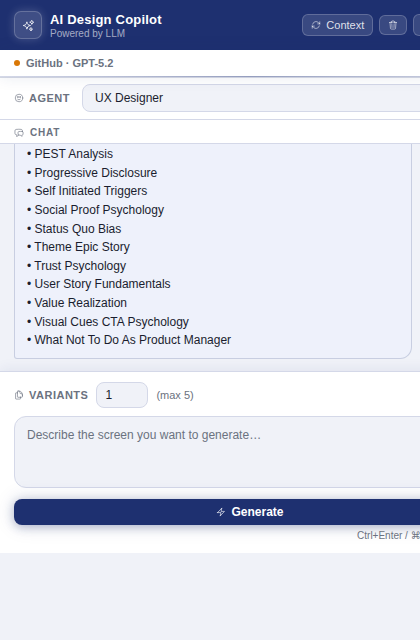
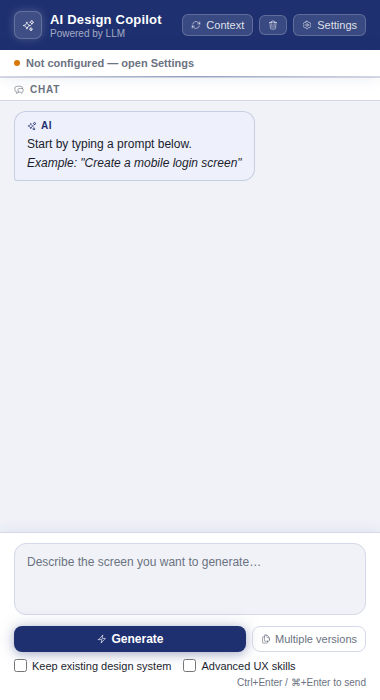
feat: redesign chat UI per designer feedback
- Remove dashed border from empty chat; replace with AI-style chat bubble
- Move all options (checkboxes) below the prompt input
- Hide version count behind a 'Multiple versions' toggle button
- Update src/ui.ts: remove empty state on first message, restore on clear (DRY helper), wire versions toggle
- Update README screenshots and UI layout table

diff --git a/ui.html b/ui.html
@@ -196,14 +196,11 @@
 
     /* ── Options Bar (checkboxes + skills info on main page) ──── */
     .options-bar {
-      background: var(--surface);
-      border-bottom: 1px solid var(--border);
-      padding: 7px 14px;
       display: flex;
       align-items: center;
       gap: 12px;
-      flex-shrink: 0;
       flex-wrap: wrap;
+      padding-top: 7px;
     }
 
     .checkbox-option {
@@ -498,17 +495,32 @@
     }
 
     .chat-empty {
-      text-align: center;
-      color: var(--text-muted);
-      font-size: 12px;
-      margin-top: 24px;
-      line-height: 1.6;
-      padding: 20px 16px;
-      background: var(--surface);
-      border: 1px dashed var(--border-aura);
+      align-self: flex-start;
+      max-width: 85%;
+      background: var(--ai-bubble);
       border-radius: var(--radius-lg);
+      border-bottom-left-radius: 3px;
+      border: 1px solid var(--border-aura);
+      padding: 8px 12px;
+      display: flex;
+      flex-direction: column;
+      gap: 4px;
     }
-    .chat-empty .icon { font-size: 26px; display: block; margin: 0 auto 10px; opacity: 0.25; color: var(--primary); }
+    .chat-empty__label {
+      font-size: 10px;
+      font-weight: 700;
+      text-transform: uppercase;
+      letter-spacing: 0.6px;
+      color: var(--primary);
+      display: flex;
+      align-items: center;
+      gap: 4px;
+    }
+    .chat-empty__text {
+      font-size: 12px;
+      color: var(--ai-text);
+      line-height: 1.55;
+    }
 
     /* ── Input Area ───────────────────────────────────────────── */
     .input-section {
@@ -524,6 +536,36 @@
       align-items: center;
       gap: 8px;
       margin-bottom: 8px;
+    }
+
+    /* ── Versions toggle button ───────────────────────────────── */
+    .btn--versions {
+      background: transparent;
+      color: var(--text-muted);
+      border: 1px solid var(--border);
+      padding: 4px 8px;
+      font-size: 11px;
+      border-radius: var(--radius);
+      display: inline-flex;
+      align-items: center;
+      gap: 4px;
+      cursor: pointer;
+      font-family: var(--font);
+      font-weight: 500;
+      transition: background 0.15s, color 0.15s, border-color 0.15s;
+    }
+    .btn--versions:hover,
+    .btn--versions.active {
+      background: var(--bg);
+      color: var(--primary);
+      border-color: var(--border-aura);
+    }
+
+    .variants-row {
+      display: flex;
+      align-items: center;
+      gap: 8px;
+      padding-top: 6px;
     }
 
     textarea {
@@ -1086,19 +1128,6 @@
     </div>
   </div>
 
-  <!-- ── Options Bar: generation mode checkboxes + loaded skills info ─ -->
-  <div class="options-bar" id="options-bar">
-    <label class="checkbox-option" title="Strictly enforce your Figma design system components and tokens">
-      <input type="checkbox" id="keep-design-system" />
-      Keep existing design system
-    </label>
-    <label class="checkbox-option" title="Load advanced UX frameworks and design principles into the prompt">
-      <input type="checkbox" id="advanced-ux-skills" />
-      Advanced UX skills
-    </label>
-    <span class="agents-skills-info" id="agents-skills-info"></span>
-  </div>
-
   <!-- ── Chat History ────────────────────────────────────────── -->
   <div class="chat-section">
     <div class="chat-section__label">
@@ -1108,25 +1137,18 @@
       </span>
     </div>
     <div id="chat-history" role="log" aria-live="polite" aria-label="Chat history">
-      <p class="chat-empty">
-        <svg class="icon icon-lg" aria-hidden="true"><use href="#icon-sparkles"/></svg>
-        Start by typing a prompt below.<br>
-        <em>Example: "Create a mobile login screen with 3 versions"</em>
-      </p>
+      <div class="chat-empty" id="chat-empty-state">
+        <span class="chat-empty__label">
+          <svg class="icon icon-sm" aria-hidden="true"><use href="#icon-sparkles"/></svg>
+          AI
+        </span>
+        <p class="chat-empty__text">Start by typing a prompt below.<br><em>Example: "Create a mobile login screen"</em></p>
+      </div>
     </div>
   </div>
 
   <!-- ── Input Area ─────────────────────────────────────────── -->
   <section class="input-section">
-    <div class="variants-row">
-      <label class="settings__label" for="variants-input">
-        <svg class="icon icon-sm" aria-hidden="true"><use href="#icon-clone"/></svg>
-        Versions
-      </label>
-      <input type="number" id="variants-input" value="1" min="1" max="5"
-             style="width:52px" aria-label="Number of versions"/>
-      <span style="color:var(--text-muted);font-size:11px">(max 5)</span>
-    </div>
     <textarea id="prompt-input" placeholder="Describe the screen you want to generate…"
               aria-label="Prompt"></textarea>
     <div class="input-actions">
@@ -1135,6 +1157,31 @@
         <svg class="icon icon-sm" id="generate-icon" aria-hidden="true"><use href="#icon-bolt"/></svg>
         <span id="generate-label">Generate</span>
       </button>
+      <button class="btn--versions" id="versions-toggle-btn" type="button" aria-expanded="false" title="Set number of versions">
+        <svg class="icon icon-sm" aria-hidden="true"><use href="#icon-clone"/></svg>
+        Multiple versions
+      </button>
+    </div>
+    <div class="variants-row hidden" id="variants-row">
+      <label class="settings__label" for="variants-input">
+        <svg class="icon icon-sm" aria-hidden="true"><use href="#icon-clone"/></svg>
+        Versions
+      </label>
+      <input type="number" id="variants-input" value="1" min="1" max="5"
+             style="width:52px" aria-label="Number of versions"/>
+      <span style="color:var(--text-muted);font-size:11px">(max 5)</span>
+    </div>
+    <!-- ── Options: generation mode checkboxes + loaded skills info ─ -->
+    <div class="options-bar" id="options-bar">
+      <label class="checkbox-option" title="Strictly enforce your Figma design system components and tokens">
+        <input type="checkbox" id="keep-design-system" />
+        Keep existing design system
+      </label>
+      <label class="checkbox-option" title="Load advanced UX frameworks and design principles into the prompt">
+        <input type="checkbox" id="advanced-ux-skills" />
+        Advanced UX skills
+      </label>
+      <span class="agents-skills-info" id="agents-skills-info"></span>
     </div>
     <p class="hint">Ctrl+Enter / ⌘+Enter to send</p>
   </section>

diff --git a/src/ui.ts b/src/ui.ts
@@ -166,6 +166,18 @@ function setupEventListeners(): void {
   refreshCtxBtn.addEventListener("click", requestDocumentContext);
   apiKeyToggle.addEventListener("click", toggleApiKeyVisibility);
 
+  // ── Multiple versions toggle ────────────────────────────────────────────
+  const versionsToggleBtn = document.getElementById("versions-toggle-btn");
+  const variantsRow = document.getElementById("variants-row");
+  if (versionsToggleBtn && variantsRow) {
+    versionsToggleBtn.addEventListener("click", () => {
+      const expanded = !variantsRow.classList.contains("hidden");
+      variantsRow.classList.toggle("hidden", expanded);
+      versionsToggleBtn.classList.toggle("active", !expanded);
+      versionsToggleBtn.setAttribute("aria-expanded", String(!expanded));
+    });
+  }
+
   // ── Provider selection ─────────────────────────────────────────────────
   const providerSelect = document.getElementById("provider-select") as HTMLSelectElement | null;
   if (providerSelect) {
@@ -554,6 +566,17 @@ function buildFullFunctionalContext(): string {
 
 // ── Chat UI helpers ───────────────────────────────────────────────────────────
 
+/** Returns the HTML markup for the empty-state chat bubble. */
+function chatEmptyStateHTML(): string {
+  return `<div class="chat-empty" id="chat-empty-state">
+    <span class="chat-empty__label">
+      <svg class="icon icon-sm" aria-hidden="true"><use href="#icon-sparkles"/></svg>
+      AI
+    </span>
+    <p class="chat-empty__text">Start by typing a prompt below.<br><em>Example: "Create a mobile login screen"</em></p>
+  </div>`;
+}
+
 function appendUserMessage(content: string): void {
   appendChatMessage("user", content);
 }
@@ -564,6 +587,10 @@ function appendAssistantMessage(content: string, skillsUsed?: string[]): void {
 
 function appendChatMessage(role: "user" | "assistant", content: string, skillsUsed?: string[]): void {
   const container = getEl<HTMLDivElement>("chat-history");
+
+  // Remove the empty-state bubble on first real message
+  const emptyState = document.getElementById("chat-empty-state");
+  if (emptyState) emptyState.remove();
   const bubble = document.createElement("div");
   bubble.className = `chat-bubble chat-bubble--${role}`;
 
@@ -597,7 +624,7 @@ function appendChatMessage(role: "user" | "assistant", content: string, skillsUs
 
 function clearHistory(): void {
   const container = getEl<HTMLDivElement>("chat-history");
-  container.innerHTML = "";
+  container.innerHTML = chatEmptyStateHTML();
   chatHistory = [];
   showToast("Chat history cleared.");
 }

diff --git a/README.md b/README.md
@@ -13,17 +13,23 @@ Supported providers:
 
 <table>
   <tr>
-    <td align="center" width="50%">
-      <strong>Main view</strong><br/>
-      Connection badge + model, generation mode checkboxes, chat interface
+    <td align="center" width="33%">
+      <strong>Main view — empty chat</strong><br/>
+      AI chat-bubble placeholder, prompt input, options below
       <br/><br/>
-      <img src="https://github.com/user-attachments/assets/cf2a0c6b-18a4-4b38-a72a-dca25108bb8a" alt="Main view — checkboxes for Keep existing design system and Advanced UX skills" width="260"/>
+      <img src="screenshots/main-view.png" alt="Main view — empty chat state with AI bubble placeholder" width="220"/>
     </td>
-    <td align="center" width="50%">
-      <strong>Settings — Functional Context &amp; Custom Skills</strong><br/>
-      Business context textarea, custom skills drop zone, skills library
+    <td align="center" width="33%">
+      <strong>Main view — Multiple versions</strong><br/>
+      Versions counter revealed by the toggle button
       <br/><br/>
-      <img src="https://github.com/user-attachments/assets/a51118d2-6846-4b37-a3a4-b152040d2a4b" alt="Settings overlay — Functional Context section, Custom Skills, Skills Library" width="260"/>
+      <img src="screenshots/main-view-versions.png" alt="Main view — Multiple versions panel expanded" width="220"/>
+    </td>
+    <td align="center" width="33%">
+      <strong>Settings — Model &amp; Custom Skills</strong><br/>
+      Provider, model, API key, functional context, skills
+      <br/><br/>
+      <img src="screenshots/settings-view.png" alt="Settings overlay — Model Configuration, Functional Context, Custom Skills" width="220"/>
     </td>
   </tr>
 </table>
@@ -100,9 +106,8 @@ The plugin UI is split into two distinct views:
 |------|---------|
 | **Header** | Brand logo, Context refresh button, Clear chat button, **Settings** button |
 | **Info bar** | Connection dot (🟠 no key / 🟢 ready) + current provider · model label |
-| **Options bar** | **Keep existing design system** checkbox · **Advanced UX skills** checkbox · loaded custom skills count |
-| **Chat** | Scrollable conversation history |
-| **Input** | Versions counter, prompt textarea, Generate button |
+| **Chat** | Scrollable conversation history; shows an AI-bubble placeholder when empty |
+| **Input** | Prompt textarea · **Generate** button · **Multiple versions** toggle (reveals version counter) · **Keep existing design system** checkbox · **Advanced UX skills** checkbox |
 
 ### Settings view (full-screen overlay)
 
